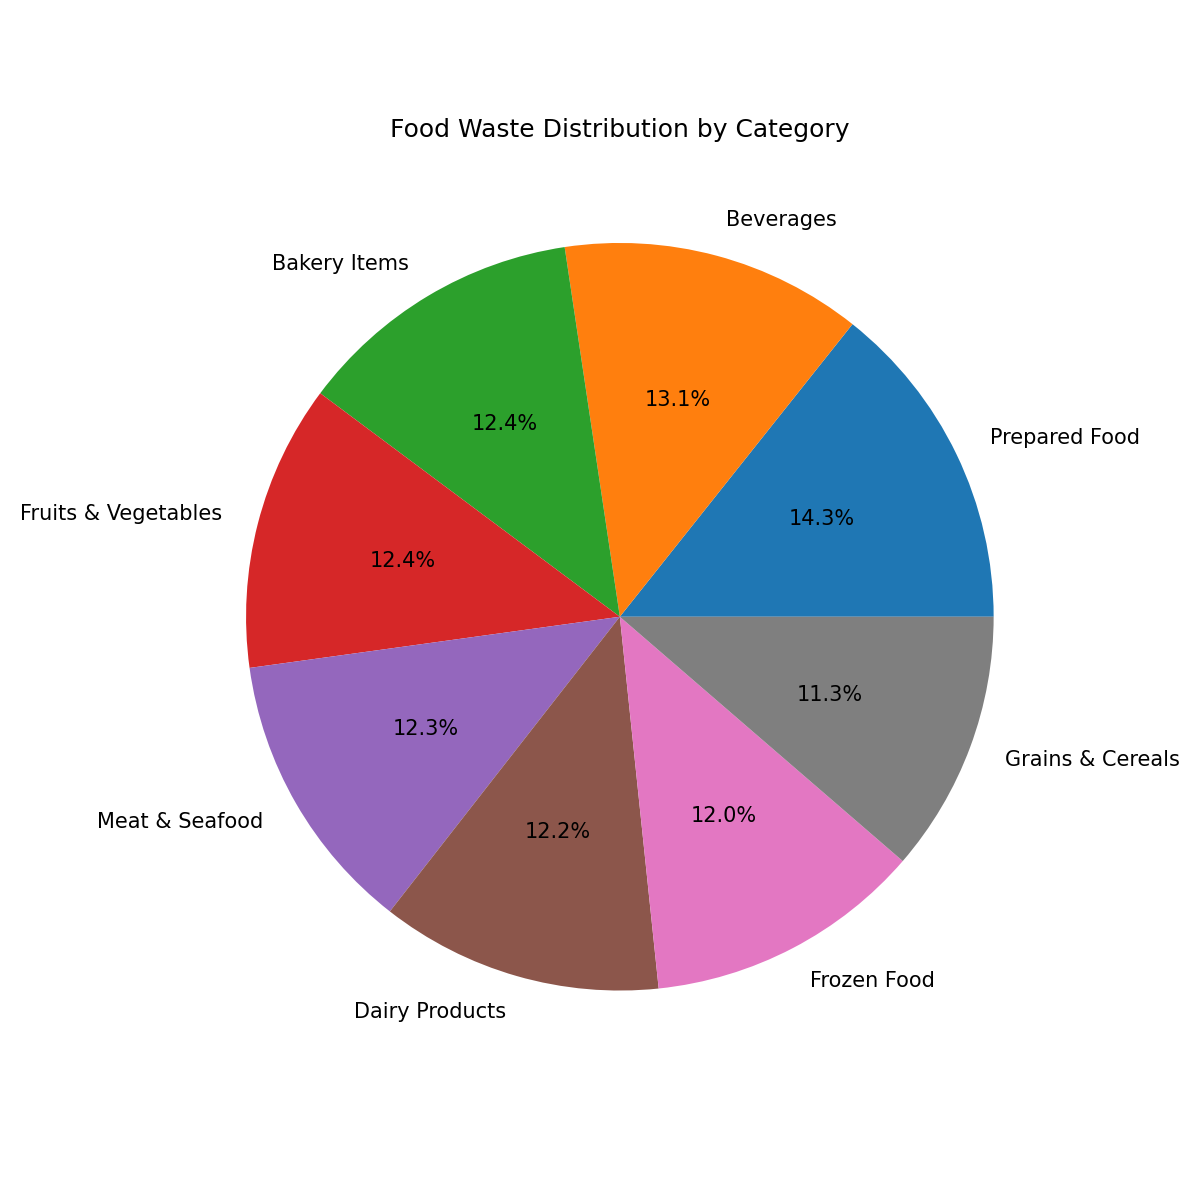
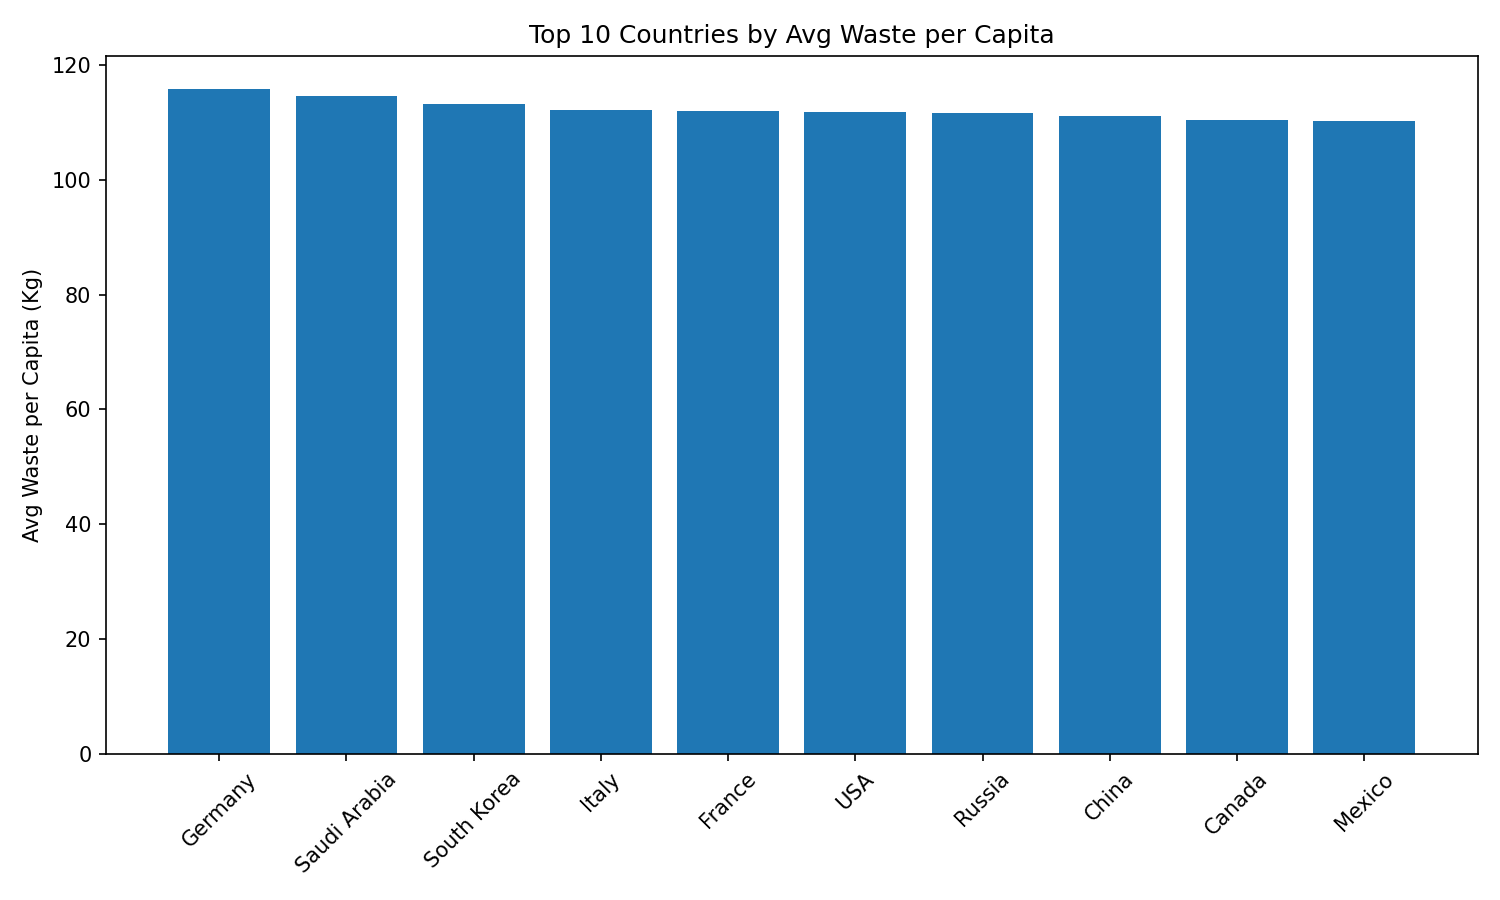
Update script, fix image saving bugs, and add README

diff --git a/foodwastage.py b/foodwastage.py
@@ -38,6 +38,7 @@ plt.title("Top 10 Countries by Avg Waste per Capita")
 plt.ylabel("Avg Waste per Capita (Kg)")
 plt.xticks(rotation=45)
 plt.tight_layout()
+plt.savefig("top10_countries.png", dpi=150)
 plt.show()
 
 year_waste = df.groupby("Year")["Total Waste (Tons)"].sum()
@@ -57,7 +58,7 @@ plt.figure(figsize=(8,8))
 plt.pie(category_waste.values, labels=category_waste.index, autopct='%1.1f%%')
 plt.title("Food Waste Distribution by Category")
 plt.tight_layout()
-plt.savefig("top10_countries.png", dpi=150)
+plt.savefig("waste_by_category_pie.png", dpi=150)
 plt.show()
 
 print("\nMost wasteful year:", year_waste.index[0])
